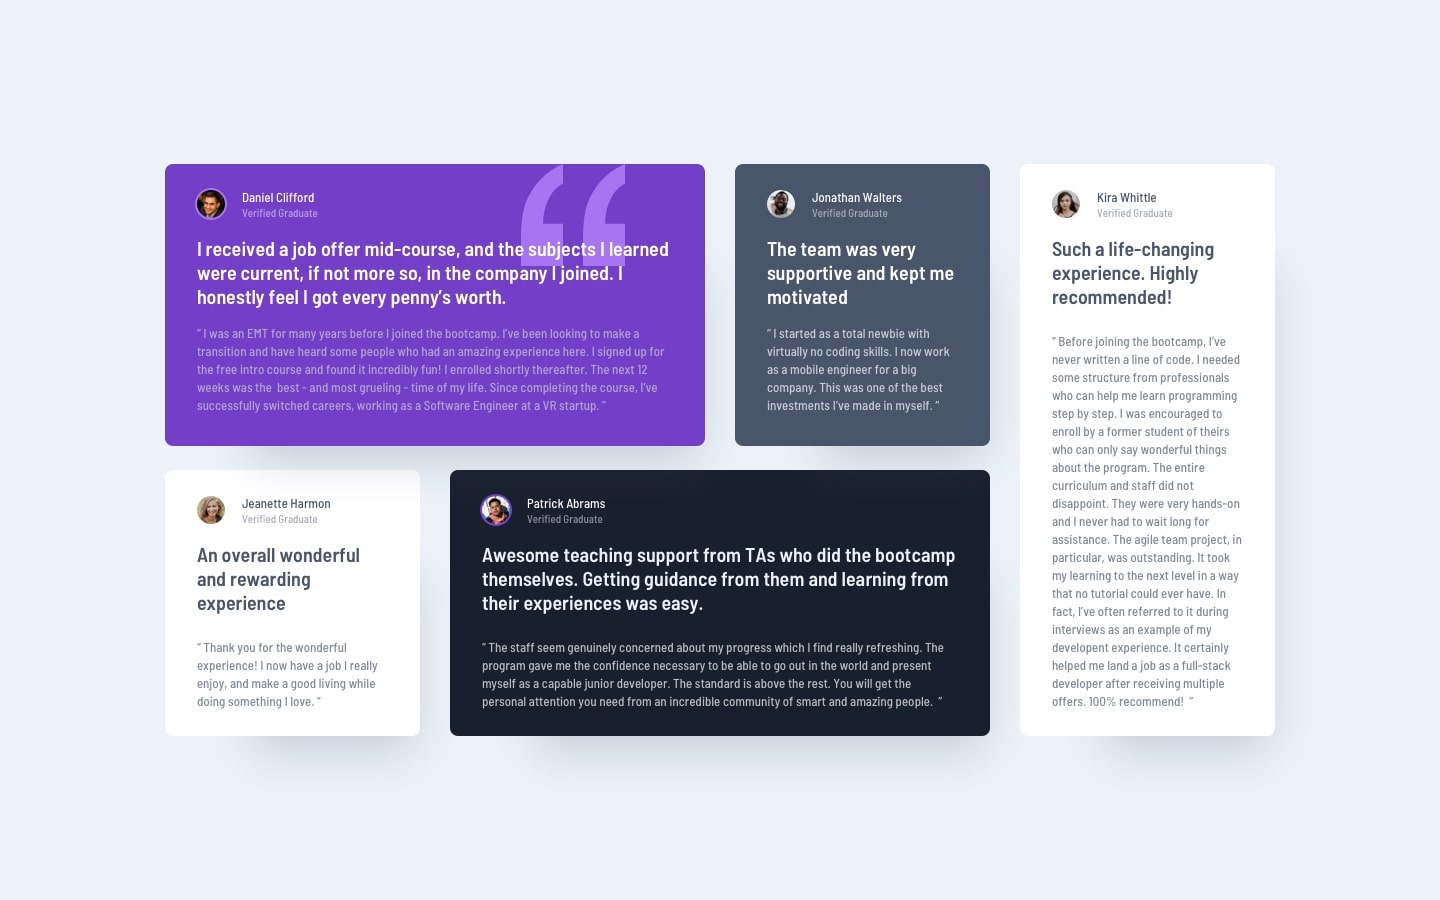
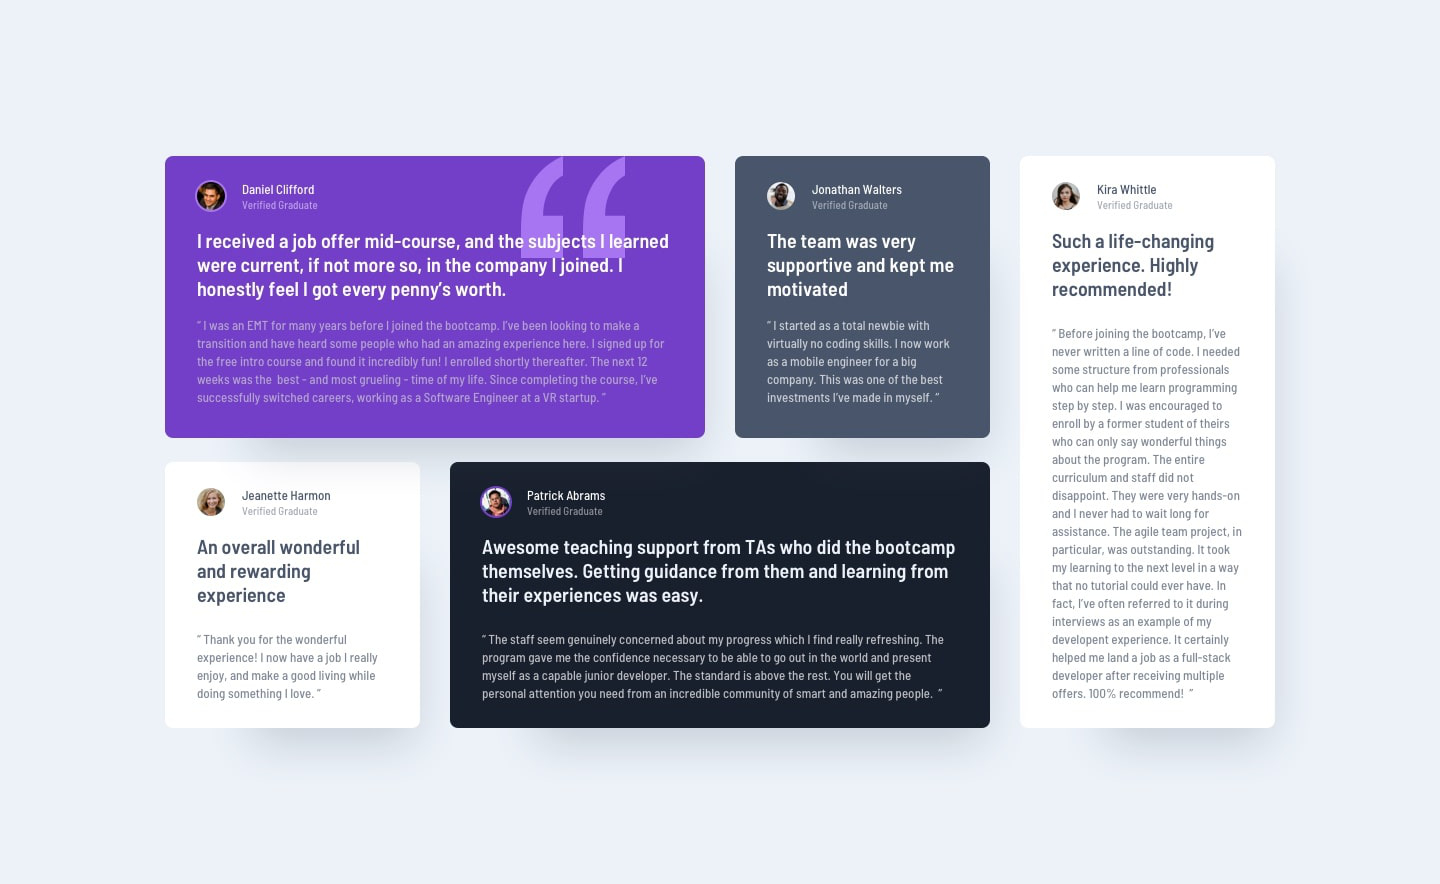
adjusted the media queries

diff --git a/styles/_media.scss b/styles/_media.scss
@@ -10,37 +10,55 @@
   }
 }
 
-@media (min-width: 800px) {
+@media (min-width: 855px) {
   main {
-    grid-template-columns: repeat(3, 1fr);
-    // grid-template-rows: repeat(auto-fill, 1fr);
-    max-width: 1010px;
+    grid-template-columns: repeat(4, 1fr);
+    grid-template-rows: repeat(2, 1fr);
+    max-width: 1110px;
 
-    // figure:first-child {
-    //   grid-column: 1 / 3;
-    // }
-    // figure:nth-child(2) {
-    //   grid-column: 3 / 4;
-    // }
-    // figure:not(:first-child):not(:nth-child(2)) {
-    //   display: none;
-    // }
+    figure:nth-child(2),
+    figure:nth-child(3) {
+      grid-row: 2 / 3;
+    }
+    figure:nth-child(3) {
+      grid-column: 2 / 3;
+    }
+    figure:nth-child(4),
+    figure:last-child {
+      grid-row: 1 / 3;
+    }
+    figure:nth-child(4) {
+      grid-column: 3 / 5;
+      grid-row: 2 / 3;
+    }
+    figure:last-child {
+      grid-column: 3 / 5;
+      grid-row: 1 / 2;
+    }
   }
 }
 
 @media (min-width: 1110px) {
-  main {
-    grid-template-columns: repeat(4, 1fr);
-    grid-template-rows: repeat(2, 1fr);
-    max-width: 1010px;
-    figure:first-child {
-      grid-column: 1 / 3;
-    }
-    figure:nth-child(4) {
-      grid-column: 2 / 4;
-    }
-    figure:last-child {
-      grid-area: 1 / 4 / 3 / 5; //shorthand for both row and column. row-start/col-start/row-end/col-end
+  body {
+    main {
+      gap: 30px;
+
+      figure:first-child {
+        background-position-x: 82%;
+        grid-column: 1 / 3;
+      }
+      figure:nth-child(2) {
+        grid-area: 1 / 3 / 2 / 4; //shorthand for both row and column. row-start/col-start/row-end/col-end
+      }
+      figure:nth-child(3) {
+        grid-area: 2 / 1 / 3 / 2;
+      }
+      figure:nth-child(4) {
+        grid-column: 2 / 4;
+      }
+      figure:last-child {
+        grid-area: 1 / 4 / 3 / 5;
+      }
     }
   }
 }

diff --git a/styles/styles.css b/styles/styles.css
@@ -99,25 +99,50 @@ main figure:last-child {
     grid-column: 1/3;
   }
 }
-@media (min-width: 800px) {
-  main {
-    grid-template-columns: repeat(3, 1fr);
-    max-width: 1010px;
-  }
-}
-@media (min-width: 1110px) {
+@media (min-width: 855px) {
   main {
     grid-template-columns: repeat(4, 1fr);
     grid-template-rows: repeat(2, 1fr);
-    max-width: 1010px;
+    max-width: 1110px;
   }
-  main figure:first-child {
-    grid-column: 1/3;
+  main figure:nth-child(2),
+main figure:nth-child(3) {
+    grid-row: 2/3;
+  }
+  main figure:nth-child(3) {
+    grid-column: 2/3;
+  }
+  main figure:nth-child(4),
+main figure:last-child {
+    grid-row: 1/3;
   }
   main figure:nth-child(4) {
-    grid-column: 2/4;
+    grid-column: 3/5;
+    grid-row: 2/3;
   }
   main figure:last-child {
+    grid-column: 3/5;
+    grid-row: 1/2;
+  }
+}
+@media (min-width: 1110px) {
+  body main {
+    gap: 30px;
+  }
+  body main figure:first-child {
+    background-position-x: 82%;
+    grid-column: 1/3;
+  }
+  body main figure:nth-child(2) {
+    grid-area: 1/3/2/4;
+  }
+  body main figure:nth-child(3) {
+    grid-area: 2/1/3/2;
+  }
+  body main figure:nth-child(4) {
+    grid-column: 2/4;
+  }
+  body main figure:last-child {
     grid-area: 1/4/3/5;
   }
 }/*# sourceMappingURL=styles.css.map */
